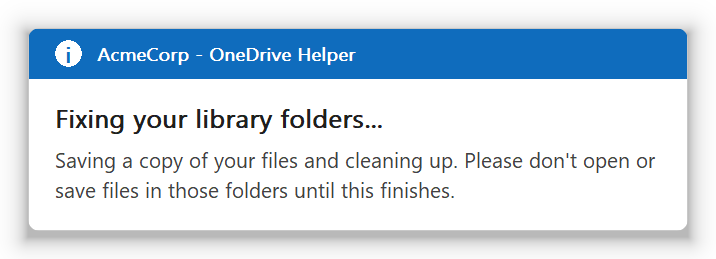
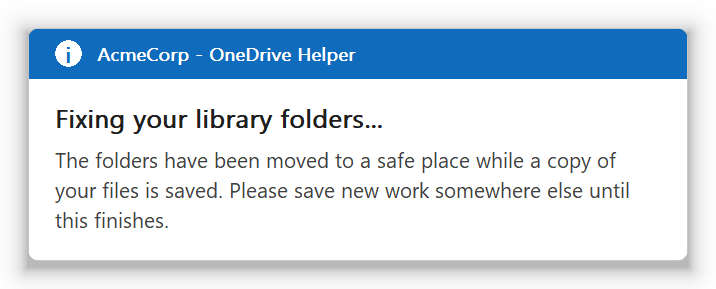
Docs for 0.8.0: version, safety checks, screenshots, RMM script checksums
Generated with [Devin](https://devin.ai)

Changed region(s): [[0.0615, 0.3707, 0.9218, 0.8031], [0.0307, 0.0927, 0.9832, 0.3089], [0.0307, 0.8649, 0.9832, 0.9266]]

diff --git a/README.md b/README.md
@@ -2,6 +2,10 @@
 
 A small Windows tool that keeps an eye on OneDrive for your users, and tells them (and you) when something has quietly gone wrong.
 
+**Current version: 0.8.0** ([release notes and downloads](https://github.com/denismcapple/OneDriveHelper/releases/latest)). To see which version a PC is running, hover over the OneDrive Helper icon next to the clock, or run `"C:\Program Files\OneDriveHelper\OneDriveHelper.exe" version`.
+
+> **New in 0.8.0: a much safer fix.** The folder fix is the only part of the tool that deletes anything, so it now moves each folder out of the way before saving it, deletes only files it has proven it saved, puts everything back if anything is in doubt, and recovers by itself if it's interrupted. Upgrades wait for a fix in progress, and roll back if they fail. The details are in [How the fix works](#how-the-fix-works).
+
 <p align="center">
   <img src="docs/images/status-problems.png" width="716" alt="OneDrive Helper status window listing folders that have stopped syncing">
 </p>
@@ -25,7 +29,7 @@ We got tired of finding out about these the hard way, so we wrote something that
   * old personal `OneDrive - Something` folders that no account uses any more
 * **Explains it in plain English.** Every alert has a **What does this mean?** link written for people who don't know or care how OneDrive works.
 * **Makes it easy to get help.** **Contact support** offers to e-mail your service desk with a full diagnostic report already in the message, or to open your support website.
-* **Fixes broken folders safely**, after an administrator approves. It saves a copy of every file stored on the PC first, removes the broken folder, then asks OneDrive to sync the library again.
+* **Fixes broken folders safely**, after an administrator approves. It moves the folder aside, saves a copy of every file stored on the PC, deletes only the files it has proven it saved, then asks OneDrive to sync the library again. If anything is in doubt, nothing is deleted and the folder goes back where it was.
 * **Puts a status icon in the system tray**, so when a user rings you, you can see straight away what's wrong, even if they closed the alert.
 * **Writes everything to the Windows event log**, so your RMM can raise a ticket or alert you.
 * **Can be branded per customer**: company name, support contact, colours and wording, all set from a settings file you push out with your RMM.
@@ -66,7 +70,7 @@ Each alert can be ignored for a while (5 minutes, 30 minutes, until the next res
 
 <img src="docs/images/tray-icons.png" width="160" alt="Tray icons: green tick, amber and red exclamation marks">
 
-Click it to see the status window (the screenshot at the top of this page). Right-click for:
+Hover over it to see the version and a one-line summary, for example "AcmeCorp - OneDrive Helper v0.8.0 / Everything looks good". Click it to see the status window (the screenshot at the top of this page), which also lists any fix that didn't finish. Right-click for:
 
 * show status
 * show alerts again
@@ -83,7 +87,7 @@ Fixing a broken folder means deleting it from the PC, so we were careful:
 
 1. **The user confirms.** They're told which folders will be fixed and whether each one can be reconnected automatically.
 2. **An administrator approves through UAC.** Your technician can type their admin credentials on a standard user's PC. The approval step looks at the problem again on its own, shows exactly what will happen (folders, file counts, sizes, free disk space), and logs who approved it. If nobody answers within 15 minutes, the user is told nothing changed (event 5010); the approval window closes itself after 10 minutes, and a late approval does nothing.
-3. **The folder is moved out of the way first.** It goes to `C:\Users\<user>\ODHelper\Fixing\<date and time>\`, so nothing (an app, or OneDrive itself) can save into its old location while the fix runs. If something has a file in it open, the folder is skipped and the user is told to close it and try again; other folders carry on.
+3. **The folder is moved out of the way first.** It goes to `C:\Users\<user>\ODHelper\Fixing\<date and time>\`, so nothing (an app, or OneDrive itself) can save into its old location while the fix runs. If something has a file in it open, the folder is skipped and the user is told which program to close (for example "Microsoft Excel has a file in it open") and to try again; other folders carry on. If every folder was skipped, the user is told plainly that nothing was changed.
 4. **Files are saved.** Every file actually stored on the PC is copied to `C:\Users\<user>\ODHelper\Saved\<date and time>\<folder>`. Online-only placeholders are skipped because they're already in the cloud. The tool checks there's enough free disk space before it starts. Each copy is written to disk, its size checked, and the original is confirmed unchanged while it was being read.
 5. **Only proven copies are deleted.** Before deleting anything, every file is checked again: it must have been copied in this run and be unchanged since, and nothing may have it open for writing. If even one file doesn't pass (or anything new appeared), nothing is deleted and the folder is put back where it was. If OneDrive has started syncing the old location again in the meantime, both copies are kept. A `manifest.json` records every step, before it happens.
 6. **OneDrive is asked to sync the library again**, for folders that were fully fixed. Where the library details are known, that's automatic. Otherwise the library's web page opens so the user can click Sync. The leftover shortcuts in Explorer's side panel are cleaned up too.
@@ -263,15 +267,15 @@ RMM agents run scripts as SYSTEM, which already has the admin rights the install
 
 ### Install script (PowerShell)
 
-This works in NinjaOne, Datto RMM, N-able, ConnectWise Automate, Atera, Kaseya, Intune platform scripts and anything else that can run PowerShell as SYSTEM. It's filled in for v0.7.0; for a later release, change the version and copy the two checksums from that release's `SHA256SUMS.txt`. Paste your customer's settings into the JSON block.
+This works in NinjaOne, Datto RMM, N-able, ConnectWise Automate, Atera, Kaseya, Intune platform scripts and anything else that can run PowerShell as SYSTEM. It's filled in for v0.8.0; for a later release, change the version and copy the two checksums from that release's `SHA256SUMS.txt`. Paste your customer's settings into the JSON block.
 
 ```powershell
 # OneDrive Helper: install or upgrade with customer settings
 $ErrorActionPreference = 'Stop'
-$Version = 'v0.7.0'
+$Version = 'v0.8.0'
 $Hashes  = @{                       # from SHA256SUMS.txt on the release page
[4 lines of base64/hex data omitted]
 }
 $Settings = @'
 {
@@ -419,7 +423,7 @@ The screenshots on this page are generated with made-up data by `go run ./tools/
 These need no admin rights; run them as the user:
 
 ```powershell
-& "C:\Program Files\OneDriveHelper\OneDriveHelper.exe" check                 # what it sees: accounts, synced folders, problems
+& "C:\Program Files\OneDriveHelper\OneDriveHelper.exe" check                 # what it sees: accounts, synced folders, problems, unfinished fixes, unreadable OneDrive data
 & "C:\Program Files\OneDriveHelper\OneDriveHelper.exe" remediate --dry-run   # exactly what a fix would do, changes nothing
 & "C:\Program Files\OneDriveHelper\OneDriveHelperAgent.exe" test-popup       # show the alerts
 ```

diff --git a/SECURITY.md b/SECURITY.md
@@ -9,8 +9,10 @@ If you think you've found a security issue, please don't open a public issue. Us
 * **No network listener, no web requests, no telemetry.** The app never talks to the internet. The only "outside" input is the Windows registry, the file system and its own settings.
 * **The service** runs as LocalSystem and does one job: starting the per-user part in each session. It only ever starts `OneDriveHelperAgent.exe` from its own folder in `C:\Program Files\OneDriveHelper`, which standard users can't write to. Its image path is always quoted.
 * **Everything that touches the user's files runs as the user.** That includes reading OneDrive's settings, restarting OneDrive, copying and deleting folders, and opening links. The UAC prompt in the fix is an approval step to prevent mistakes. It isn't used to do the file work, because doing that elevated inside a folder the user controls would let them redirect an administrator's writes.
-* **Folders are never followed through junctions or symbolic links.** The fix only touches folders inside the user's own profile, never a folder containing their Desktop or Documents, and never one OneDrive is actually syncing (checked again just before acting).
-* **The service's log folder** (`%ProgramData%\OneDriveHelper`) is owned by Administrators and only writable by SYSTEM and Administrators. A folder planted there in advance by a user is moved aside rather than trusted.
+* **Folders are never followed through junctions or symbolic links.** Every part of a folder's path below the profile is checked, and a folder behind a link is refused. The fix only touches folders inside the user's own profile, never a folder containing their Desktop or Documents, and never one OneDrive is actually syncing (checked before the folder is moved and again before anything is deleted). If OneDrive's settings can't be read, nothing is fixed.
+* **The fix never deletes a file it hasn't proven it saved.** Each folder is moved aside by handle, each file is recorded while it is copied and flushed to disk, and only recorded, unchanged files are deleted, through handles that lock out other writers. Every step is written to a journal before it happens, so an interrupted fix is put back or reported; recovery runs only as the user.
+* **The service's log folder** (`%ProgramData%\OneDriveHelper`) is created with its final permissions (owned by Administrators, writable only by SYSTEM and Administrators), so it is never briefly user-writable. A folder planted there in advance by a user is moved aside rather than trusted.
+* **Approvals expire.** An administrator approval that comes more than 15 minutes after the request does nothing.
 * **Settings** live in `HKLM`, so only administrators can change them. Every settings file is validated before it's applied.
 * **Values read from the user's registry are treated as untrusted.** For example, only `https://` site addresses are ever opened, and only a file actually called `OneDrive.exe` is ever started.
 * **System DLLs only.** All Windows DLLs are loaded from System32, so DLL planting next to the programs doesn't work.
